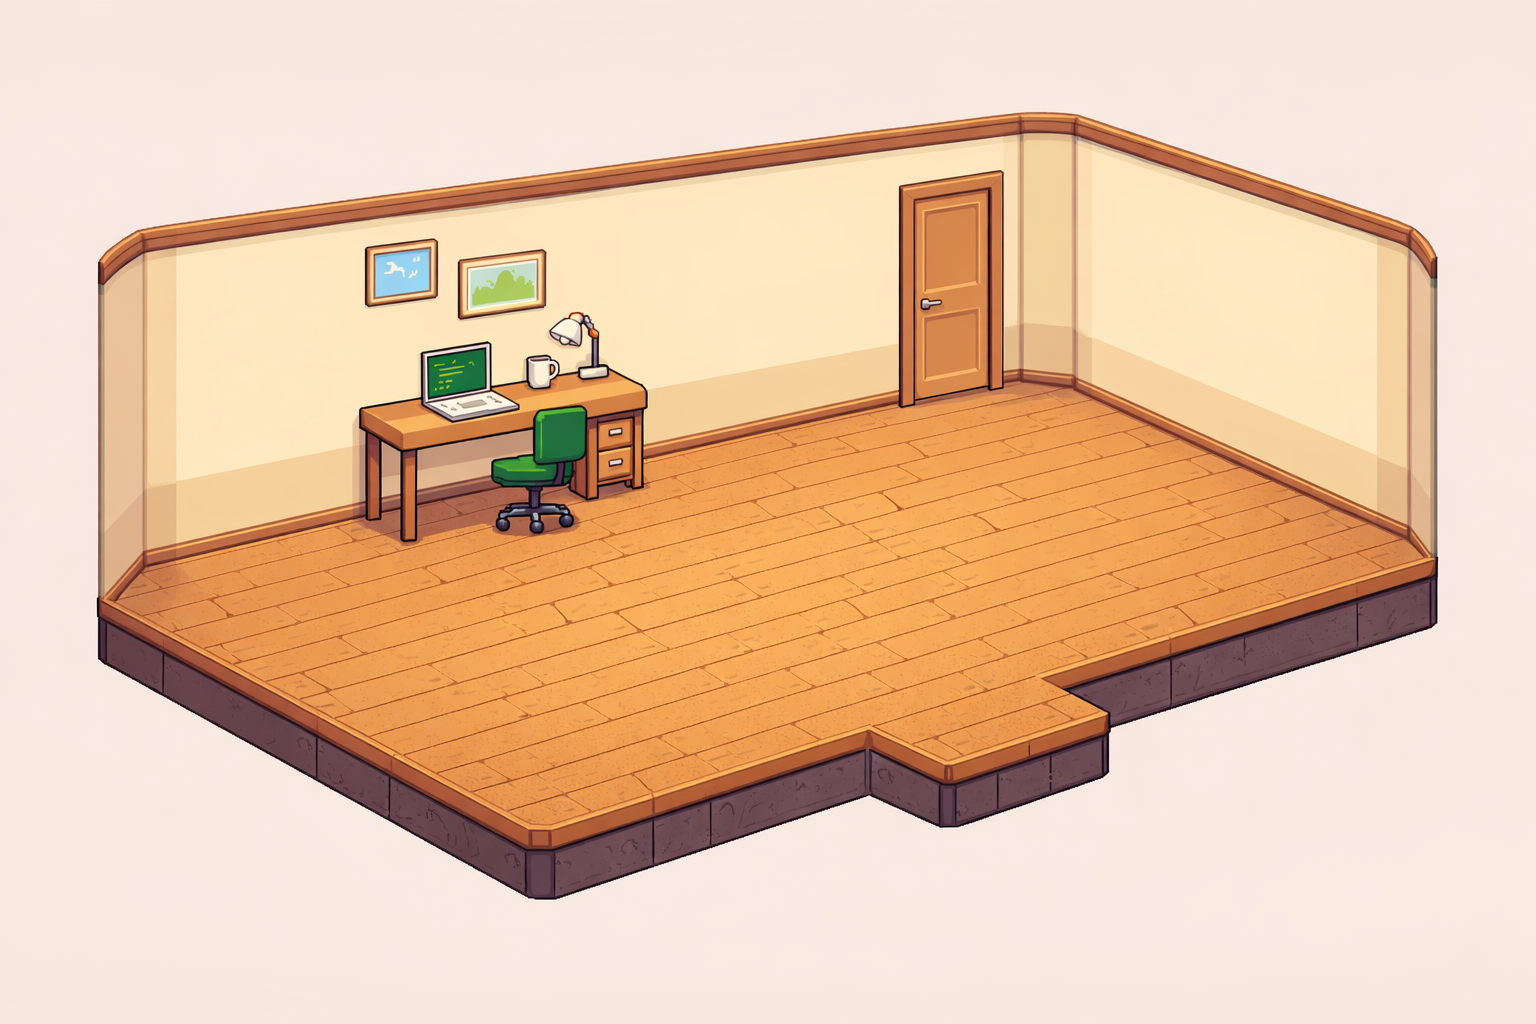
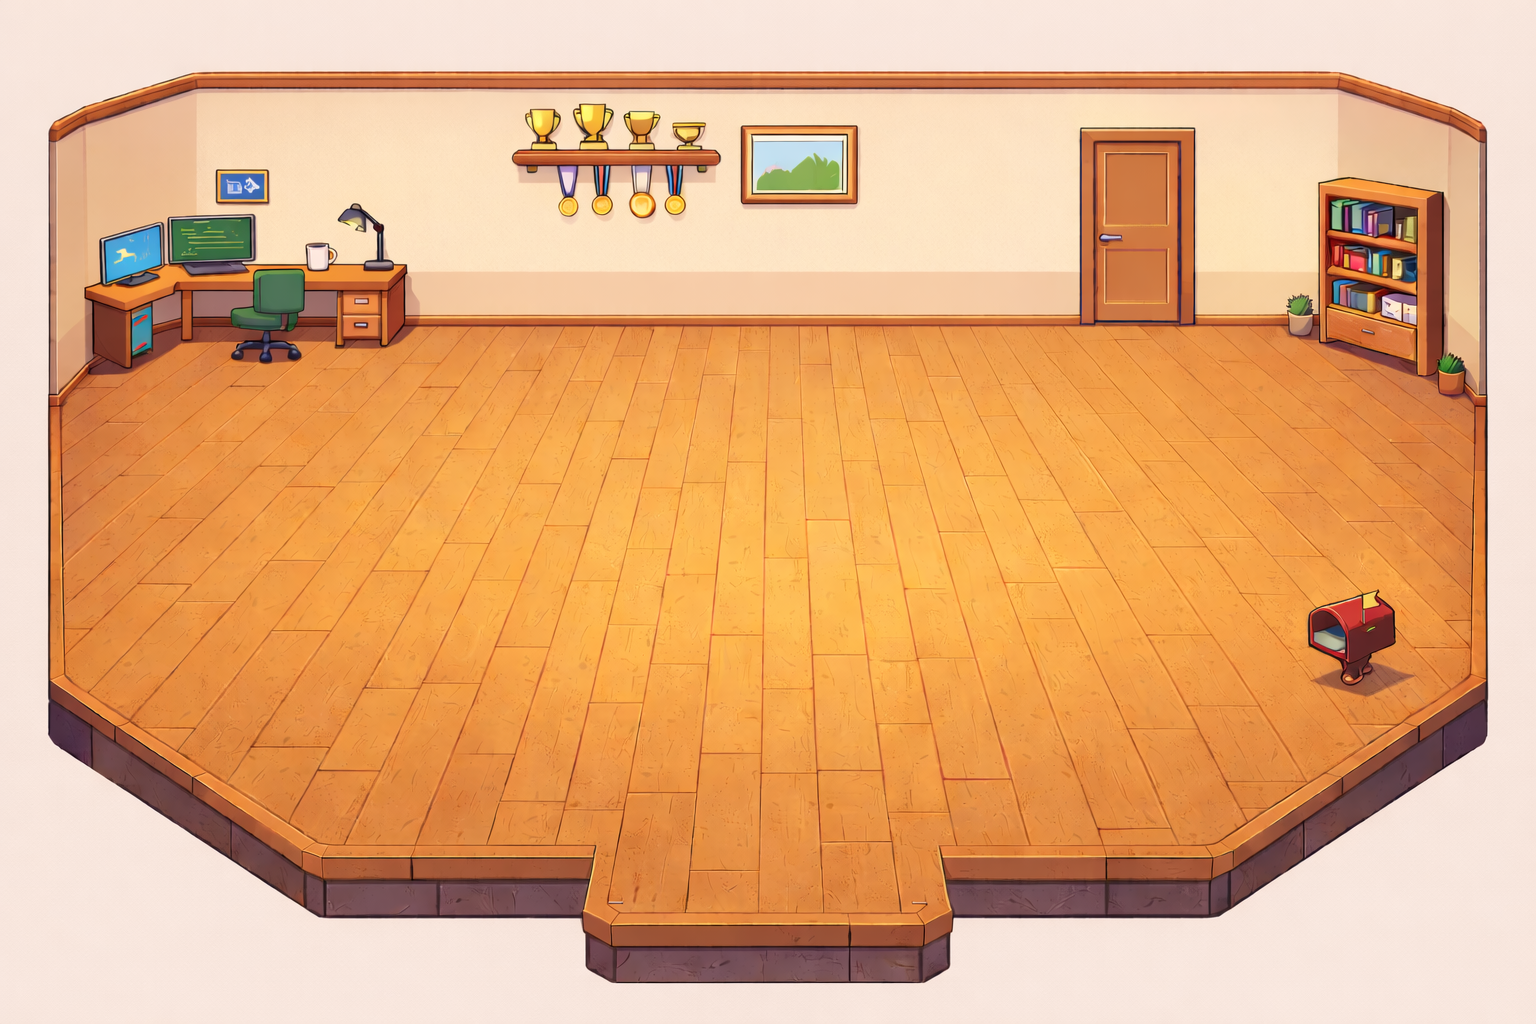
new house in the house

diff --git a/main.js b/main.js
@@ -1,51 +1,54 @@
 let player;
 let cursors;
 let keys;
-let computer;
+let desk;
 let interactText;
 let interactKey ;
 let interacted = false;
 let aboutPanel;
 let aboutText;
+let room;
 // hi---------------------------------------------------------------------------------
 
 function preload() {
   this.load.image("player", "assets/player.png");
   this.load.image("room", "assets/room.png");
-  this.load.image("computer", "assets/computer.png");
+
 }
 
 // hi---------------------------------------------------------------------------------
 
 function create() {
+  
+ room = this.add.image(0, 0, "room");
+room.setOrigin(0);
 
-  let centerX = this.cameras.main.width / 2;
-  let centerY = this.cameras.main.height / 2;
+  this.cameras.main.setBounds(0, 0, room.width, room.height);
 
-  let room = this.add.image(centerX, centerY, "room");
-  room.setDisplaySize(window.innerWidth,window.innerHeight);
-
-  player = this.add.sprite(300,200,"player");
+  player = this.add.sprite(480,400,"player");
   player.setScale(0.1);
 
-  computer = {
-  x: 500,
-  y: 340
-  };
+  this.cameras.main.startFollow(player);
+
+desk = {
+  x: 200,
+  y: 250
+};
   
   cursors = this.input.keyboard.createCursorKeys();
   keys = this.input.keyboard.addKeys("W,A,S,D");
   interactKey = this.input.keyboard.addKey("E");
-interactText = this.add.text(computer.x, computer.y - 80, "", {
+interactText = this.add.text(desk.x, desk.y - 80, "", {
   fontSize: "32px",
   fill: "#ffffff",   
   backgroundColor: "#6e6a6a"
 });
 
 interactText.setOrigin(0.5);
+
 aboutPanel = this.add.rectangle(
-  this.cameras.main.width / 2,
-  this.cameras.main.height / 2,
+  this.scale.width / 2,
+  this.scale.height / 2,
   500,
   300,
   0x000000,
@@ -55,8 +58,8 @@ aboutPanel = this.add.rectangle(
 aboutPanel.setVisible(false);
 
 aboutText = this.add.text(
-  this.cameras.main.width / 2,
-  this.cameras.main.height / 2,
+  this.scale.width / 2,
+  this.scale.height / 2,
   "Hi, I'm Ravi 👋\n\nI build interactive projects\nand love coding.",
   {
     fontSize: "28px",
@@ -67,8 +70,9 @@ aboutText = this.add.text(
 
 aboutText.setOrigin(0.5);
 aboutText.setVisible(false);
+aboutPanel.setScrollFactor(0);
+aboutText.setScrollFactor(0);
 
-interactText.setOrigin(0.5);
 };
 
 
@@ -76,6 +80,9 @@ interactText.setOrigin(0.5);
 // hi ---------------------------------------------------------------------------------
 
 function update(){
+  if(aboutPanel.visible){
+  return;
+}
 
    if(cursors.left.isDown || keys.A.isDown){
     player.x -= 3
@@ -92,14 +99,25 @@ function update(){
   if(cursors.down.isDown || keys.S.isDown){
     player.y += 3
   }
-  player.x = Phaser.Math.Clamp(player.x, 0, this.cameras.main.width);
-  player.y = Phaser.Math.Clamp(player.y, 0, this.cameras.main.height);
+const marginX = 80;
+const marginTop = 80;
+const marginBottom = 170;
+
+player.x = Phaser.Math.Clamp(player.x, marginX, room.width - marginX);
+player.y = Phaser.Math.Clamp(player.y, marginTop, room.height - marginBottom);
+
+
 let distance = Phaser.Math.Distance.Between(
   player.x,
   player.y,
-  computer.x,
-  computer.y
+  desk.x,
+  desk.y
 );
+
+interactText.setPosition(desk.x, desk.y - 80);
+
+
+
 
 if(distance < 100){
 
@@ -122,17 +140,20 @@ else{
 
 const config = {
   type: Phaser.AUTO,
-  width:window.innerWidth,
-  height:window.innerHeight,
+  width: 1280,
+  height: 720,
   parent: "game-container",
   backgroundColor: "#0f172a",
   scene: {
     preload: preload,
     create: create,
     update: update
+  },
+  scale: {
+    mode: Phaser.Scale.FIT,
+    autoCenter: Phaser.Scale.CENTER_BOTH
   }
 }
-
 
 
 
